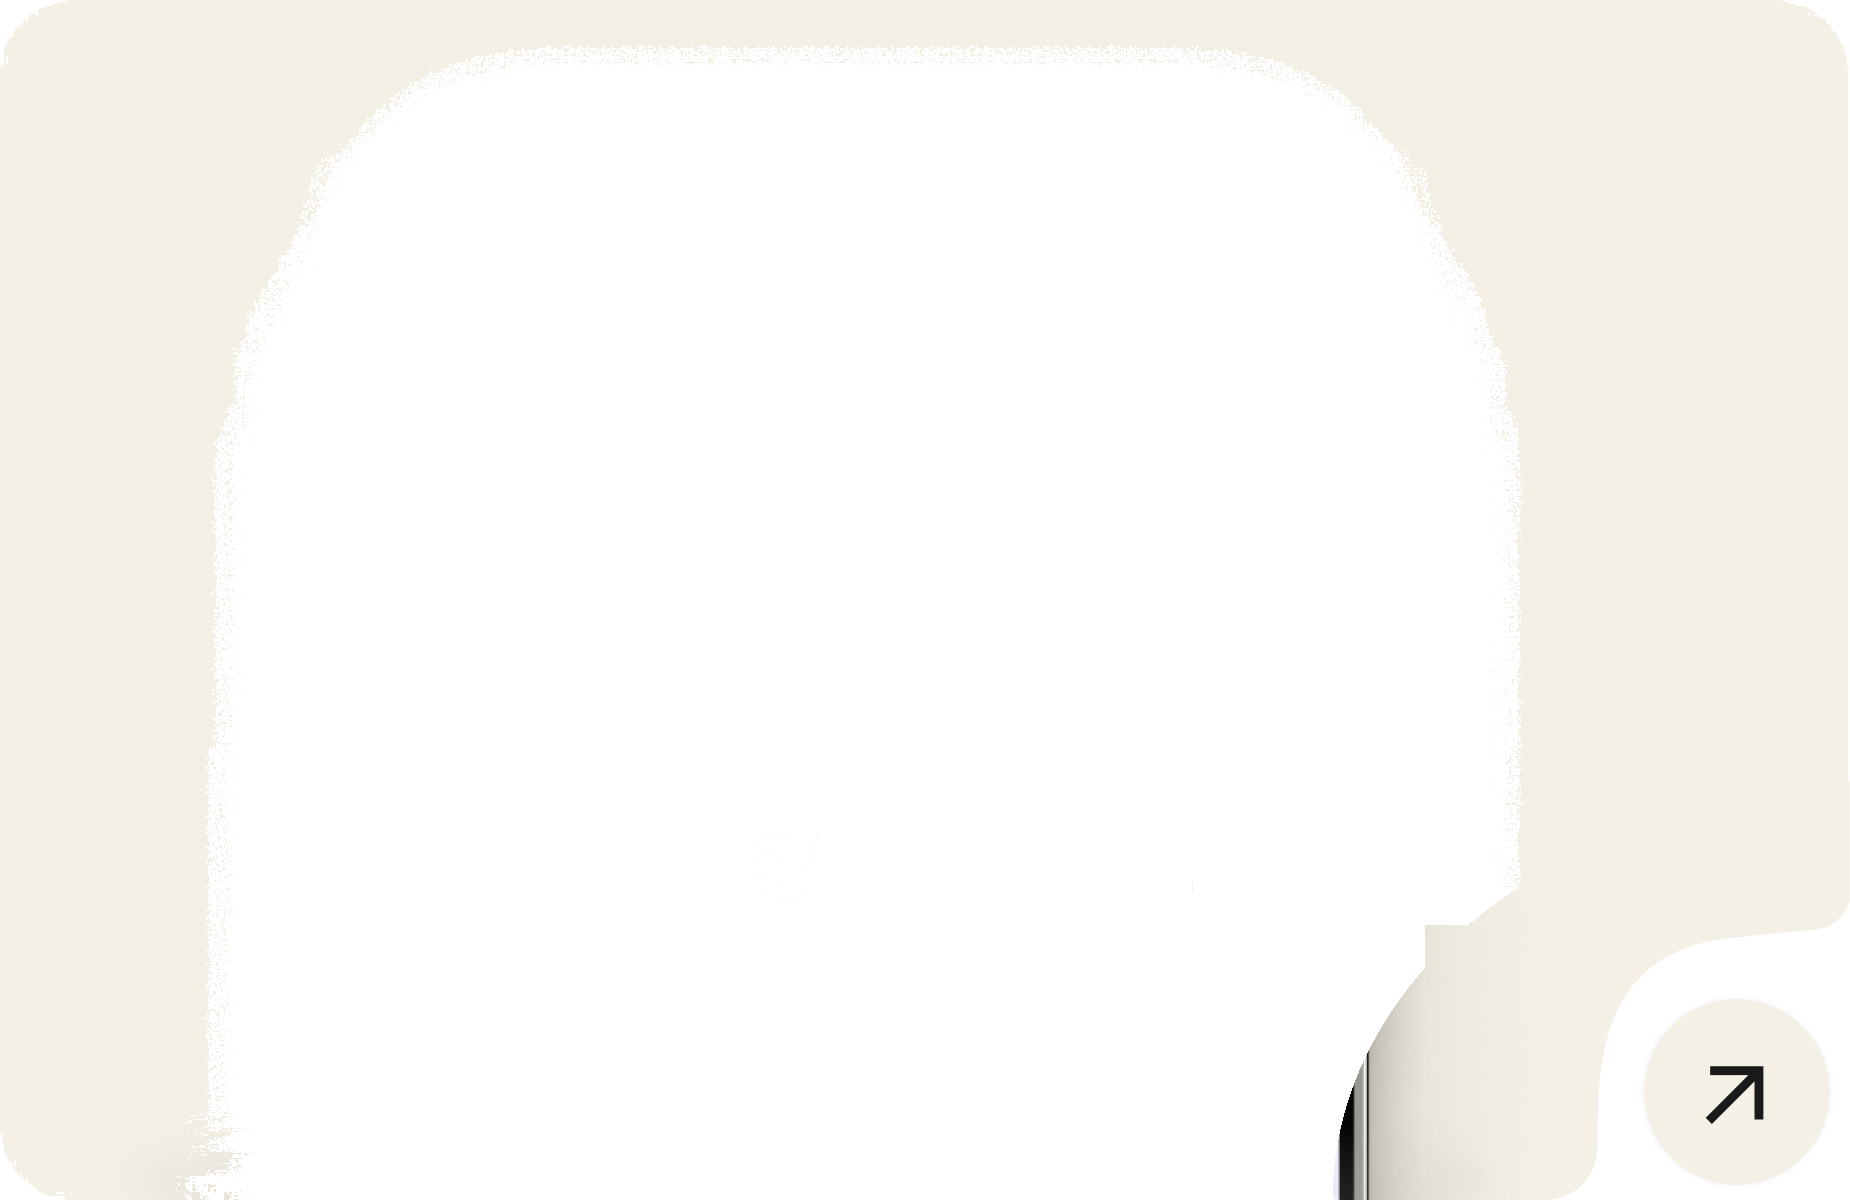
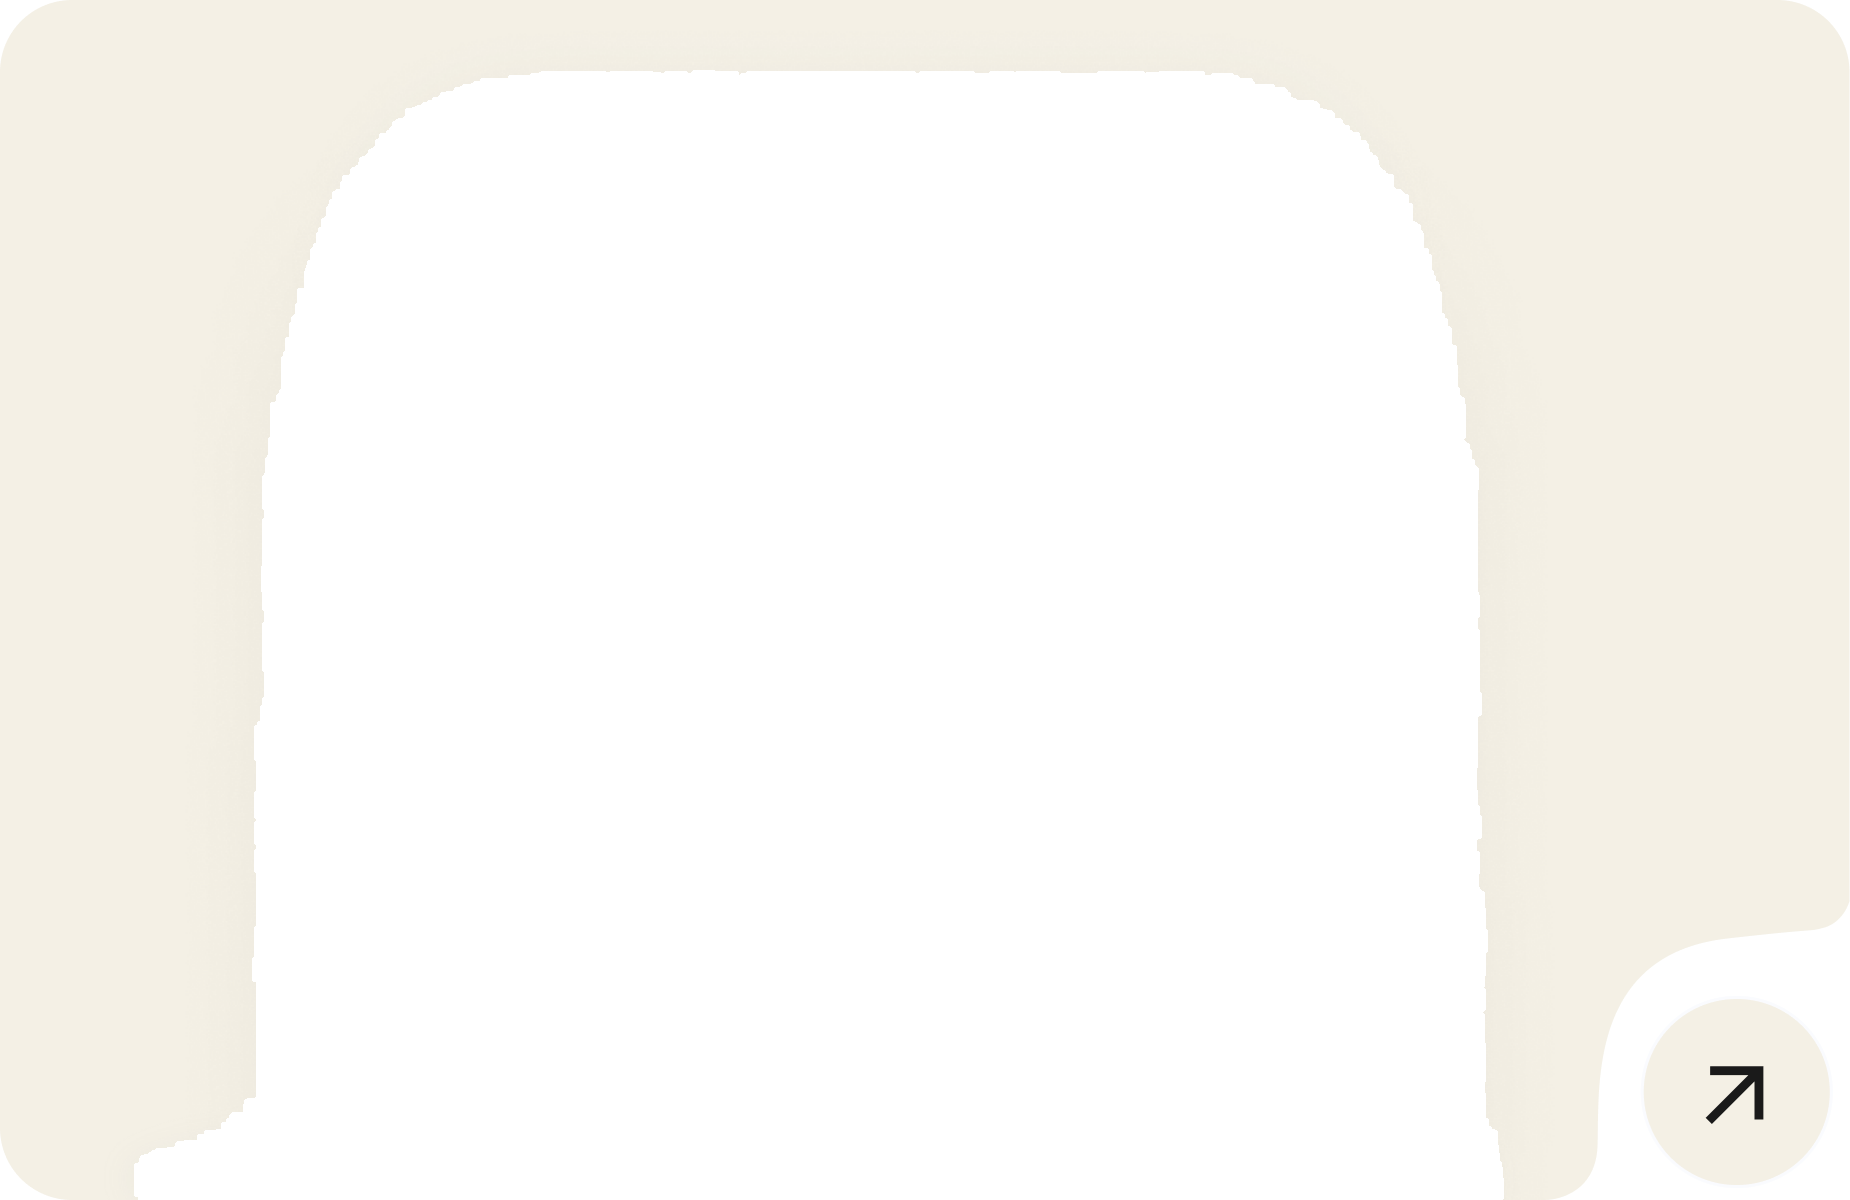
Fix ai-commentary hover patch on phone edge
The patch was caused by frame and mockup both containing phone pixels,
plus shadow fringe staying static while the mockup scaled horizontally.

- At rest: show the full preview PNG (pixel-perfect)
- On hover: instantly swap to frame + scaling mockup (no double render)
- Regenerate layers with flood-fill phone mask and shadow fringe in mockup
- Anchor transform at phone center-bottom with subtle lift (scale 1.02)

diff --git a/sections/work/WorkProjectPreview.tsx b/sections/work/WorkProjectPreview.tsx
@@ -37,7 +37,12 @@ const PREVIEW_INTRINSIC_HEIGHT = 1200;
 const PREVIEW_SIZES = `(max-width: 768px) 100vw, (max-width: 1440px) 50vw, ${PREVIEW_DISPLAY_WIDTH}px`;
 
 const HOVER_TRANSITION =
-  "transition-transform duration-[600ms] ease-out motion-safe:group-hover:scale-[1.04]";
+  "transition-transform duration-[600ms] ease-out motion-safe:group-hover:scale-[1.02] motion-safe:group-hover:-translate-y-1";
+
+/** Phone anchor for ai-commentary — center-x of device in 3× export */
+const splitLayerTransformOrigin: Partial<Record<WorkProjectPreview, string>> = {
+  "ai-commentary": "45% 100%",
+};
 
 type WorkProjectPreviewProps = {
   variant: WorkProjectPreview;
@@ -62,33 +67,48 @@ export default function WorkProjectPreviewView({
     >
       {usesSplitLayers ? (
         <>
-          {/* Static frame — bg, cutout, arrow, phone shadow (Figma background layer) */}
+          {/* At rest: full preview — pixel-perfect, no double layers */}
           <Image
-            src={frameImages[variant]!}
+            src={previewImages[variant]}
             alt=""
             width={PREVIEW_INTRINSIC_WIDTH}
             height={PREVIEW_INTRINSIC_HEIGHT}
             sizes={PREVIEW_SIZES}
             quality={100}
             priority={priority}
-            unoptimized
-            className="absolute inset-0 size-full object-cover"
+            className="absolute inset-0 size-full object-cover visible group-hover:invisible"
             draggable={false}
           />
 
-          {/* Phone mockup only — scales from bottom so it stays grounded on the shadow */}
-          <Image
-            src={mockupImages[variant]!}
-            alt=""
-            width={PREVIEW_INTRINSIC_WIDTH}
-            height={PREVIEW_INTRINSIC_HEIGHT}
-            sizes={PREVIEW_SIZES}
-            quality={100}
-            priority={priority}
-            unoptimized
-            className={`absolute inset-0 size-full origin-bottom object-cover ${HOVER_TRANSITION}`}
-            draggable={false}
-          />
+          {/* On hover: swap to split layers so only the phone scales */}
+          <div className="pointer-events-none absolute inset-0 invisible group-hover:visible">
+            <Image
+              src={frameImages[variant]!}
+              alt=""
+              width={PREVIEW_INTRINSIC_WIDTH}
+              height={PREVIEW_INTRINSIC_HEIGHT}
+              sizes={PREVIEW_SIZES}
+              quality={100}
+              priority={priority}
+              unoptimized
+              className="absolute inset-0 size-full object-cover"
+              draggable={false}
+            />
+
+            <Image
+              src={mockupImages[variant]!}
+              alt=""
+              width={PREVIEW_INTRINSIC_WIDTH}
+              height={PREVIEW_INTRINSIC_HEIGHT}
+              sizes={PREVIEW_SIZES}
+              quality={100}
+              priority={priority}
+              unoptimized
+              className={`absolute inset-0 size-full object-cover backface-hidden will-change-transform ${HOVER_TRANSITION}`}
+              style={{ transformOrigin: splitLayerTransformOrigin[variant] ?? "50% 100%" }}
+              draggable={false}
+            />
+          </div>
         </>
       ) : (
         <Image